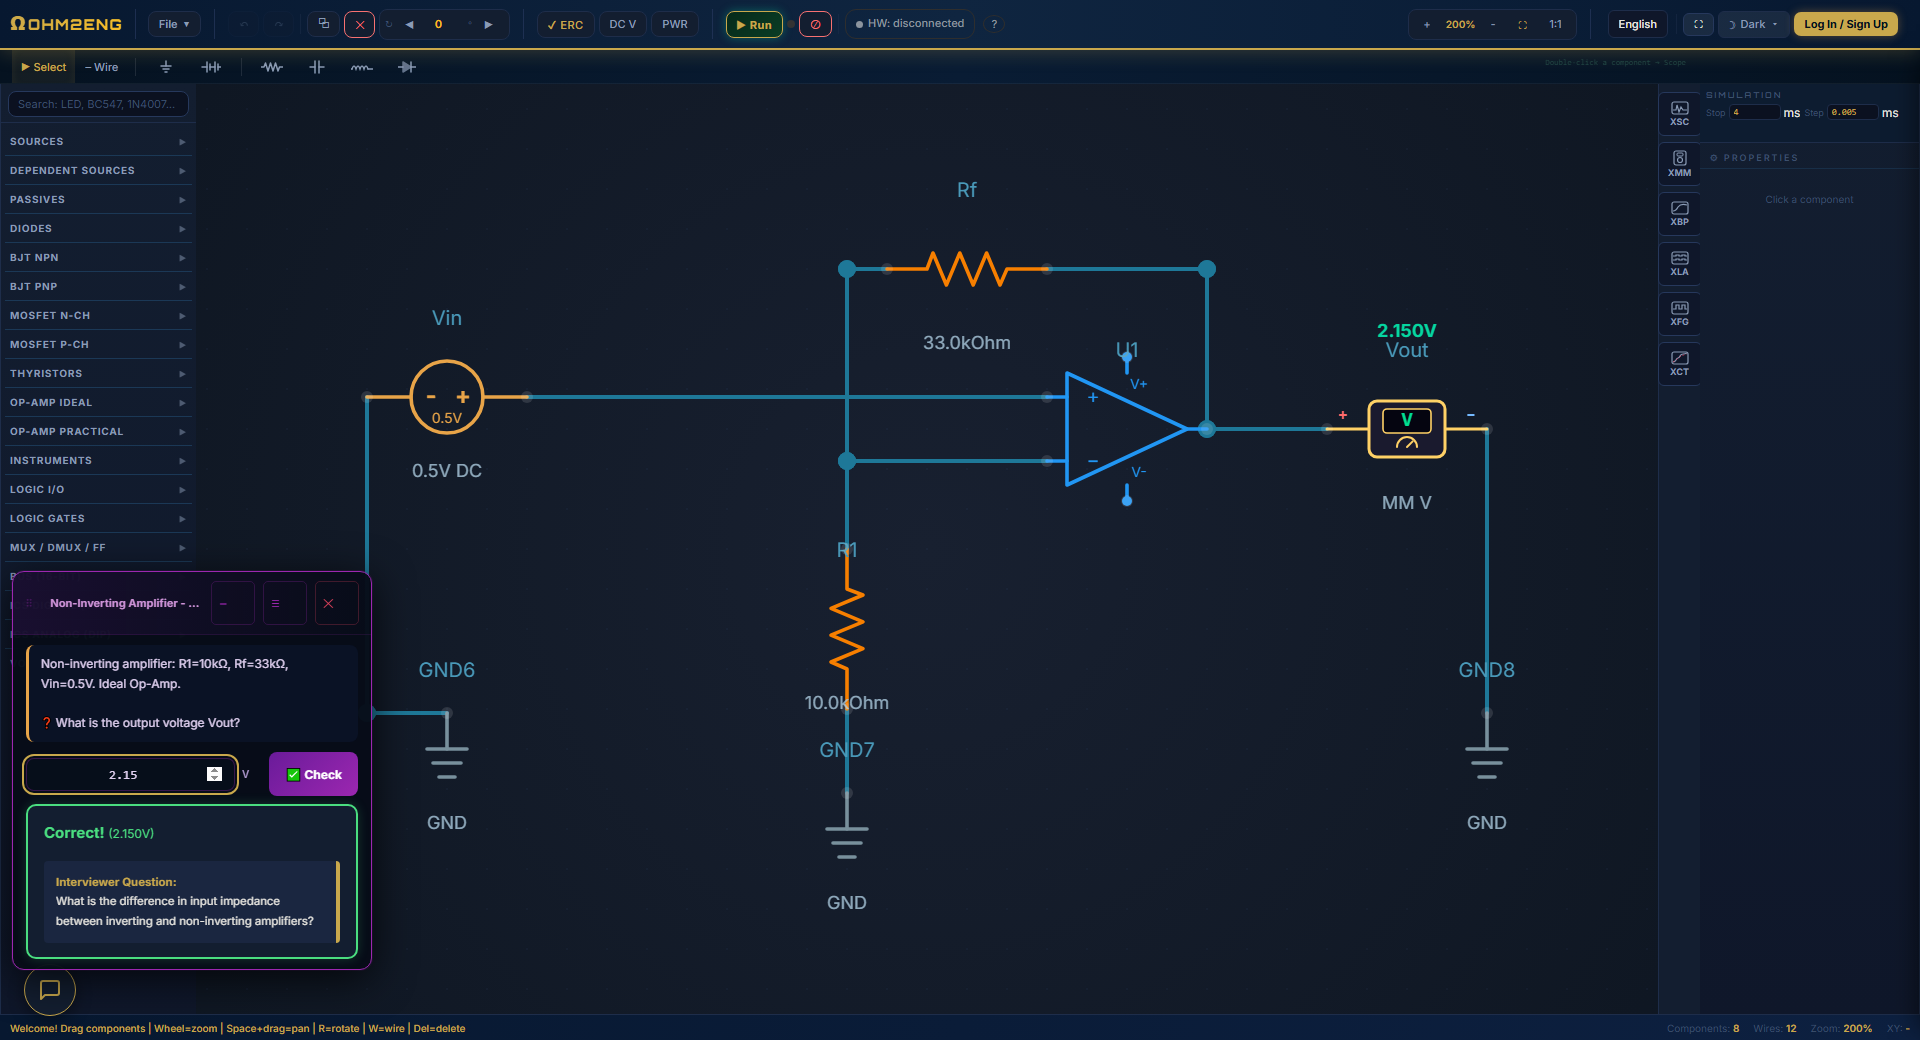
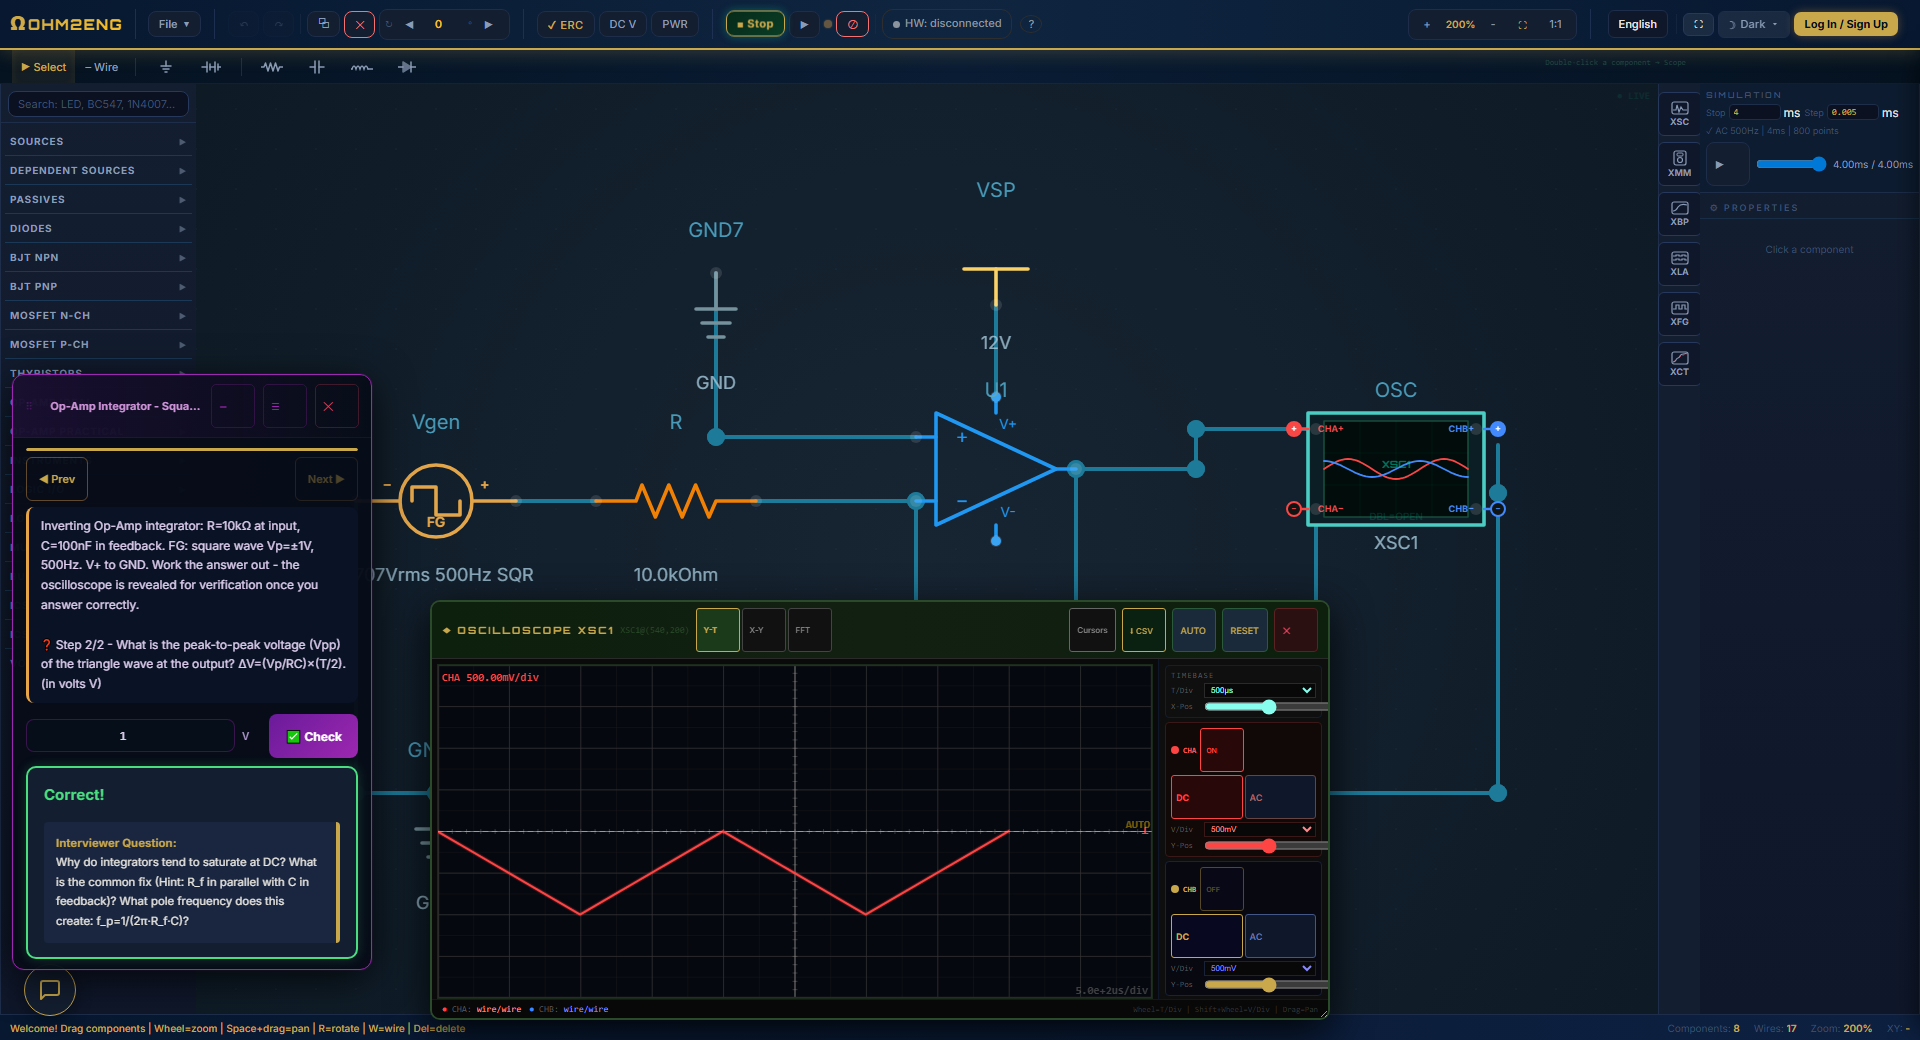
docs: swap the career screenshot for the integrator question

diff --git a/README.md b/README.md
@@ -49,9 +49,9 @@ OHM2ENG does two big things in the browser, and a third that reaches outside it:
 
 <sub>*The computer-architecture course in action: build an XOR gate from NOT / AND / OR primitives, watch the live HDL preview write the `CHIP Xor` definition as you wire it, then have it graded against its full truth table - one step on the path from a single logic gate up to a working CPU.*</sub>
 
-![An interview question in the career centre: a non-inverting amplifier on the canvas, the meter readings hidden, and a typed answer graded correct with a follow-up question](docs/screenshot-career.png)
+![An interview question in the career centre: an op-amp integrator, answered blind, with the oscilloscope revealed afterwards showing the triangle wave the answer predicted](docs/screenshot-career.png)
 
-<sub>*Interview prep, graded. The question gives the circuit and asks for a number; the meter readings stay **hidden** while you answer, so the value has to be reasoned out rather than read off. Answer correctly and the solver's own value is revealed next to it - along with the interviewer's follow-up question.*</sub>
+<sub>*Interview prep, graded. An op-amp integrator fed a square wave: the question asks for the time constant, then for the peak-to-peak swing of the output - and the oscilloscope stays **hidden** while you answer, so the numbers have to be derived rather than read off. Answer both correctly and the scope opens on the triangle wave you just predicted, followed by the interviewer's next question.*</sub>
 
 ---
 
